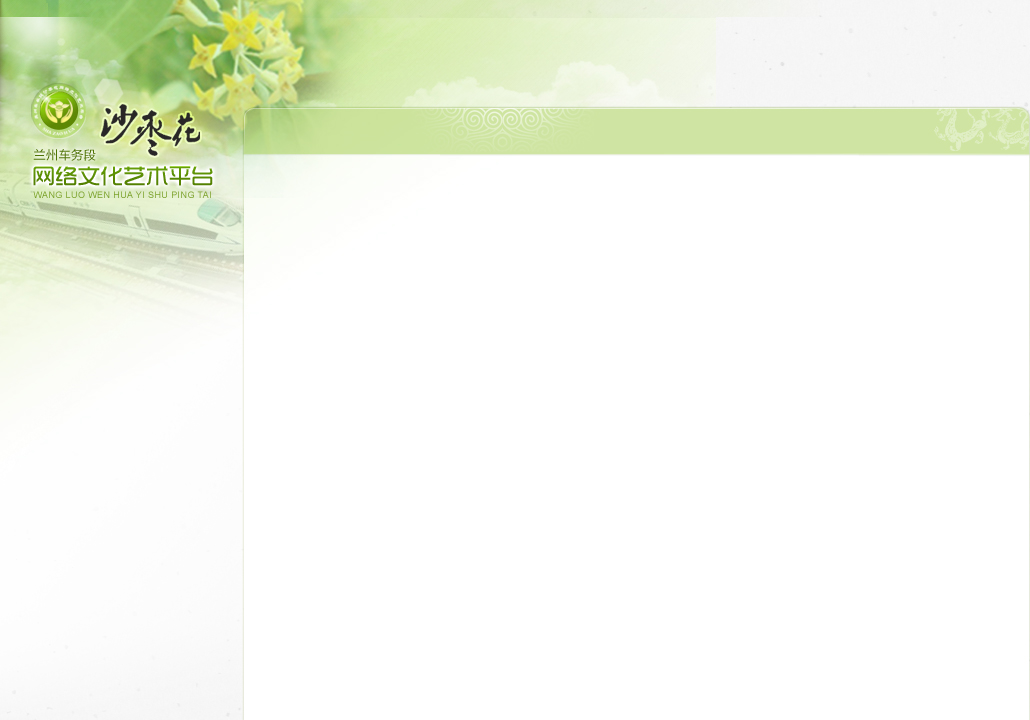
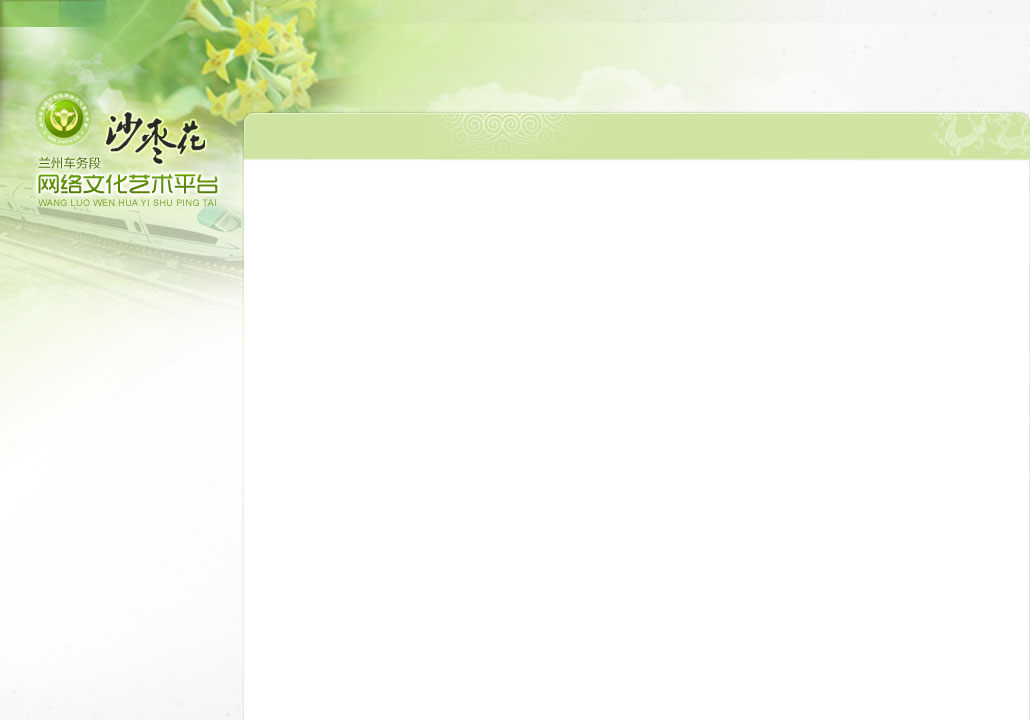
modify layout

Changed region(s): [[0.0, 0.0, 1.0, 0.3667], [0.5282, 0.0917, 0.5592, 0.1222]]

diff --git a/css/base.css b/css/base.css
@@ -103,13 +103,17 @@ a.content:hover{text-decoration:none;color:#333;}
 .footer{color:#999;padding:20px 0 50px 253px;line-height:20px;}
 .copyright{width:42px;height:40px;background:url(/img/layout/copyright.png) no-repeat;float:left;margin-right:10px;}
 /* nav */
-.nav{font-size:14px;margin:0 0 24px 340px;}
-.nav li{float:left;height:55px;line-height:55px;width:88px;text-align:center;border-left:1px #b1ccab solid;}
+.nav{font-size:14px;margin:0 0 9px 370px;}
+.nav li{float:left;height:75px;width:85px;text-align:center;}
+.nav .on{background:url(/img/layout/nav_on.png) no-repeat;_filter:progid:DXImageTransform.Microsoft.AlphaImageLoader(src='/img/layout/nav_on.png');}
+.nav a{display:block;line-height:55px;height:55px;border-left:1px #b9cf8b solid;}
+.nav .first a{border-left:0px;}
 /* leftside */
 .leftside{padding:158px 0 0 55px;width:156px;float:left;}
-.leftside_nav{width:156px;}
+.leftside_nav{width:156px;z-index:5;position:relative;}
 .leftside_nav li{border-bottom:1px #c8de9b solid;padding-left:5px;height:35px;line-height:35px;}
 .leftside_nav .dot{margin-right:6px}
+.leftside_pic{width:243px;height:400px;position:absolute;left:0;top:470px;z-index:1;}
 /* rightside */
 .rightside{float:right;width:787px;}
 .rightside_title{height:48px;line-height:48px;}
@@ -161,4 +165,6 @@ a.content:hover{text-decoration:none;color:#333;}
 .hot_bottom{background:url(/img/layout/hot_bg.png) no-repeat 0 -25px;width:236px;height:12px;}
 /* btn */
 .support_btn{background:url(/img/btn/support.png) no-repeat;padding-left:30px;width:42px;height:29px;line-height:29px;display:inline-block;font-size:14px;}
-
+/* zhwy */
+.zhwy .rightside_title{background:url(/img/zhwy/title.png) no-repeat 42px;}
+.zhwy .leftside_pic{background:url(/img/zhwy/left.png) no-repeat;}

diff --git a/common/header.php b/common/header.php
@@ -27,8 +27,8 @@
 		</div>
 		<div class="container clearfix">
 			<ul class="nav yahei clearfix">
-				<li><a href="#">综合文艺</a></li>
-				<li><a href="#">沙枣文苑</a></li>
+				<li class="first"><a href="#">综合文艺</a></li>
+				<li class="on"><a href="#">沙枣文苑</a></li>
 				<li><a href="#">我爱我家</a></li>
 				<li><a href="#">民情民意</a></li>
 				<li><a href="#">短信传情</a></li>

diff --git a/zhonghewenyi/index.php b/zhonghewenyi/index.php
@@ -1,7 +1,7 @@
 <? include '../common/header.php';?>
 <? include 'leftside.php';?>
-<div class="rightside">
-	<h1 class="rightside_title">【综合文艺】</h1>
+<div class="rightside zhwy">
+	<h1 class="rightside_title"></h1>
 	<div class="rightside_content">
 		<div class="section">
 			<a class="section_more" href="#">更多>></a>

diff --git a/zhonghewenyi/liebiao.php b/zhonghewenyi/liebiao.php
@@ -1,7 +1,7 @@
 <? include '../common/header.php';?>
 <? include 'leftside.php';?>
-<div class="rightside">
-	<h1 class="rightside_title">【综合文艺】</h1>
+<div class="rightside zhwy">
+	<h1 class="rightside_title"></h1>
 	<div class="rightside_content">
 		<div class="section">
 			<h3 class="section_title">主题活动</h3>

diff --git a/zhonghewenyi/neirong.php b/zhonghewenyi/neirong.php
@@ -1,7 +1,7 @@
 <? include '../common/header.php';?>
 <? include 'leftside.php';?>
-<div class="rightside">
-	<h1 class="rightside_title">【综合文艺】</h1>
+<div class="rightside zhwy">
+	<h1 class="rightside_title"></h1>
 	<div class="rightside_content">
 		<div class="section">
 			<h3 class="section_title">季度影赛</h3>

diff --git a/zhonghewenyi/tuwen.php b/zhonghewenyi/tuwen.php
@@ -1,7 +1,7 @@
 <? include '../common/header.php';?>
 <? include 'leftside.php';?>
-<div class="rightside">
-	<h1 class="rightside_title">【综合文艺】</h1>
+<div class="rightside zhwy">
+	<h1 class="rightside_title"></h1>
 	<div class="rightside_content">
 		<div class="section">
 			<h3 class="section_title">季度影赛</h3>

diff --git a/zhonghewenyi/wenzi.php b/zhonghewenyi/wenzi.php
@@ -1,7 +1,7 @@
 <? include '../common/header.php';?>
 <? include 'leftside.php';?>
-<div class="rightside">
-	<h1 class="rightside_title">【综合文艺】</h1>
+<div class="rightside zhwy">
+	<h1 class="rightside_title"></h1>
 	<div class="rightside_content">
 		<div class="section">
 			<h3 class="section_title">季度影赛</h3>

diff --git a/zhonghewenyi/leftside.php b/zhonghewenyi/leftside.php
@@ -1,4 +1,5 @@
-<div class="leftside">
+<div class="leftside zhwy">
+	<div class="leftside_pic"></div>
 	<h1 class="c_green yahei ml5 f16">综合文艺</h1>
 	<h6 class="c_green yahei ml5 mt5 f8">ZHONG HE WEN YI</h6>
 	<ul class="leftside_nav mt15">
